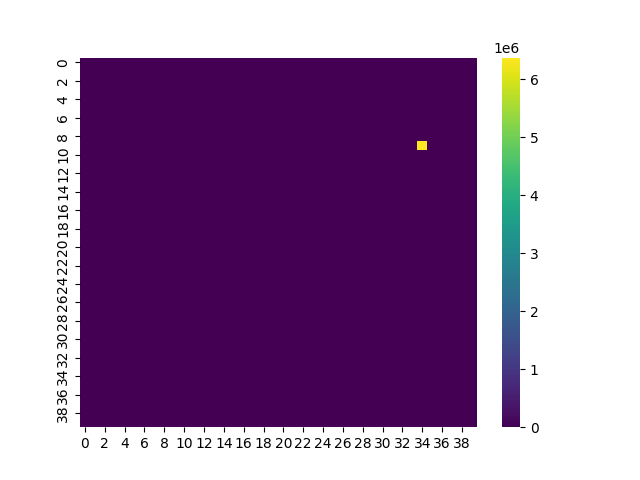
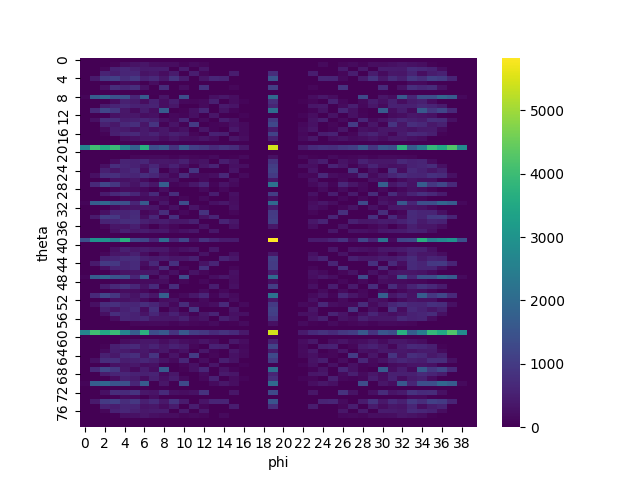
iter

diff --git a/unit_cell_determination/RADFAC.py b/unit_cell_determination/RADFAC.py
@@ -70,9 +70,9 @@ def RA_autocorrelation(data,
     dth = np.pi / n_theta_bins
     dphi = np.pi / n_phi_bins
     th_min = 0
-    phi_min = -np.pi/2
-    th_max = np.pi - dth
-    phi_max = np.pi/2 - dphi
+    phi_min = 0
+    th_max = np.pi 
+    phi_max = np.pi
 
     th_bins = torch.linspace(th_min, th_max, n_theta_bins)
     phi_bins = torch.linspace(phi_min, phi_max, n_phi_bins)
@@ -82,25 +82,32 @@ def RA_autocorrelation(data,
     type_isolation = []
 
     for i in range(n_types):
-        mask = atom_types[:, i]
-        type_isolation.append(data[mask])
+        mask = atom_types[:, i] > 0
+        mask = mask.unsqueeze(-1).repeat(1, 3)
+        type_isolation.append(torch.masked_select(data, mask).view(-1, 3))
 
-    ADF = torch.ones((n_theta_bins, n_phi_bins))
     theta_matrix_list = [theta_angle_matrix(data_i) for data_i in type_isolation]
     phi_matrix_list = [phi_angle_matrix(data_i) for data_i in type_isolation]
 
-    for i in range(n_types) :
+    for i in range(n_types):
+        theta_matrix_list[i][theta_matrix_list[i] < 1e-6] = np.pi
+        phi_matrix_list[i][phi_matrix_list[i] < -np.pi/2 + 1e-6] = np.pi
+
+    ADF = torch.ones((n_theta_bins, n_phi_bins))
+
+    for i in range(n_types):
         for th_ind, theta in enumerate(th_bins):
-            theta_mask = (theta_matrix_list[i] > theta) & (theta_matrix_list[i] < theta + dth)
+            theta_mask = (theta_matrix_list[i] > theta) & (theta_matrix_list[i] <= theta + dth)
             for phi_ind, phi in enumerate(phi_bins):
-                phi_mask = (phi_matrix_list[i] > phi) & (phi_matrix_list[i] < phi + dphi)
+                phi_mask = (phi_matrix_list[i] > phi) & (phi_matrix_list[i] <= phi + dphi)
                 mask = theta_mask & phi_mask
-                print(torch.sum(mask))
                 ADF[th_ind, phi_ind] *= torch.sum(mask) ** (1/n_types)
 
     #adf png
     plt.figure()
     sns.heatmap(ADF, cmap = 'viridis')
+    plt.xlabel('phi')
+    plt.ylabel('theta')
     plt.savefig('ADF.png')
 
     #cutoff should only be use when the data is very large
@@ -207,14 +214,16 @@ def theta_angle_matrix(data):
     
     cos_theta = adjacent / hypotenuse
 
-    return torch.acos(cos_theta) * sign_y
+    cos_theta = torch.clamp(cos_theta, -1, 1)
+
+    return torch.acos(cos_theta)*sign_y
 
 def phi_angle_matrix(data):
     """
     atoms x atoms angle matrix: angle above xy plane
     """
-    x0_xy = data[None, :, :2] - data[:, None, :2]
-    adjacent = torch.linalg.vector_norm(x0_xy, dim = -1)
+    x0_z = data[None, :, 2] - data[:, None, 2]
+    adjacent = x0_z
 
     x0_xyz = data[None, :, :] - data[:, None, :]
     hypotenuse = torch.linalg.vector_norm(x0_xyz, dim = -1)
@@ -223,7 +232,13 @@ def phi_angle_matrix(data):
 
     cos_phi = adjacent / hypotenuse
 
-    return torch.acos(cos_phi) * sign_z
+    cos_phi = cos_phi.fill_diagonal_(0)
+
+    print(cos_phi.min(), cos_phi.max())
+
+    cos_phi = torch.clamp(cos_phi, -1, 1)
+
+    return torch.acos(cos_phi)
 
 def autocorrelation(data: torch.tensor,
                     data_uncertainty: torch.tensor,

diff --git a/examples/unit_cell.py b/examples/unit_cell.py
@@ -35,7 +35,7 @@ if __name__ == '__main__':
     for i in range(len(data)):
         kwargs = {'r_max_mult': torch.tensor(4.0), 
                   'n_r_bins': 200, 
-                  'n_theta_bins': 40, 'n_phi_bins': 40, 
+                  'n_theta_bins': 80, 'n_phi_bins': 40, 
                   'n_space_bins': 100, 
                   'kernel': 'gaussian', 
                   'use_cutoff': True}
@@ -47,7 +47,6 @@ if __name__ == '__main__':
         coords = coords @ lattice
         coords = create_supercell(coords, lattice, n)
         types = data_point.numbers.long()
-        print(lattice)
 
         ohe_types = torch.nn.functional.one_hot(types,num_classes=-1)
         mask = ohe_types.sum(dim=0) > 0
